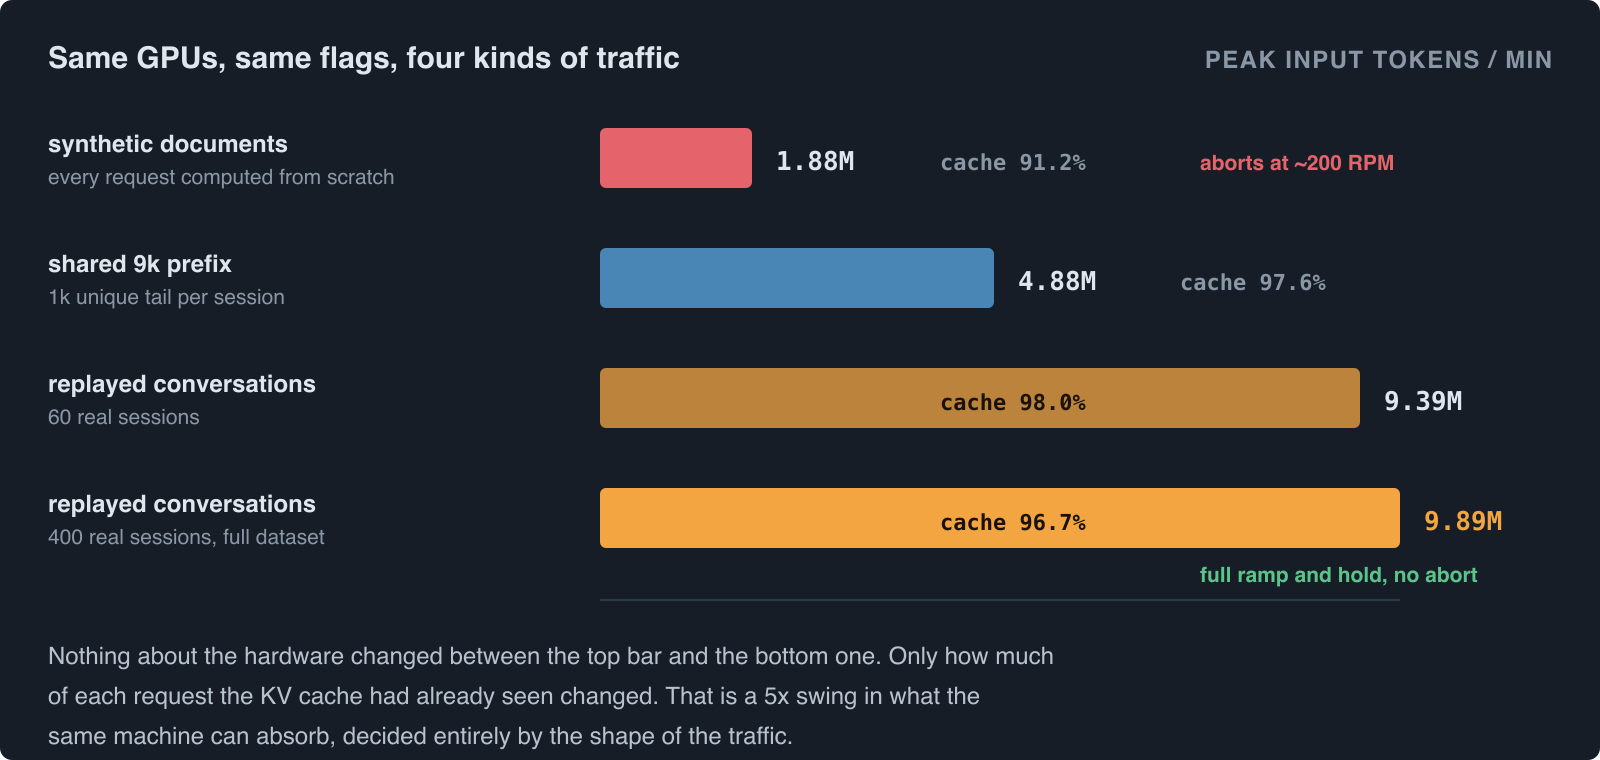
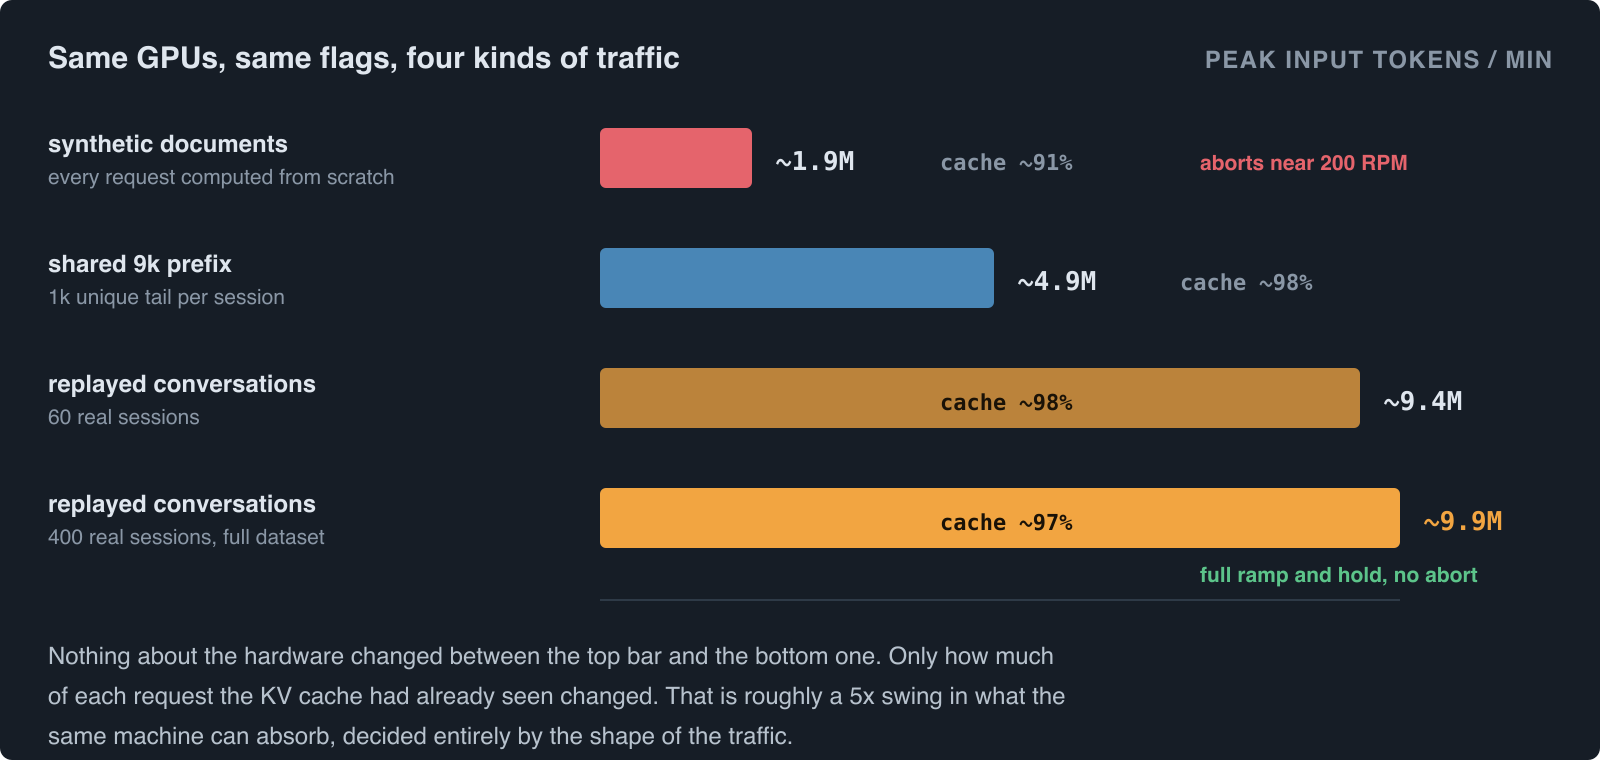
scaling: round the case study figures to approximate numbers, text and images

diff --git a/scaling/blog.md b/scaling/blog.md
@@ -214,17 +214,17 @@ Regions add capacity as a side effect, but choosing them for capacity alone is a
 
 The run described at the top completed the full ramp and the hold without tripping either abort condition, and everything above shows up in its numbers.
 
-Little's Law shows up directly in the raw numbers, not just as a teaching formula. Near the end of the run, about 1,119 requests per minute were completing, about 18.65 per second, each taking around 10 seconds end to end. 18.65 × 10 is about 186, and the harness was independently tracking around 190 to 196 requests actually running at once, the small gap being a handful of requests briefly queued rather than running.
+Little's Law shows up directly in the raw numbers, not just as a teaching formula. Near the end of the run, roughly 1,100 requests per minute were completing, so about 18 per second, each taking around 10 seconds end to end. 18 × 10 is about 180, and the server was independently reporting close to 200 requests actually running at once, dipping lower whenever a batch of requests sat briefly in the queue instead of running.
 
-Memory was the ceiling, not compute, here too. The 214 GiB of KV cache per GPU rank listed in the setup is what decided how many of those requests could be in flight at once, before counting the model's own weights.
+Memory was the ceiling, not compute, here too. The KV cache alone reserved more than 200 GiB per GPU rank, and that is what decided how many of those requests could be in flight at once, before counting the model's own weights.
 
 Workload shape decided the outcome more than the hardware did. The same server, same GPUs, same flags were tested against three different kinds of traffic. Synthetic sessions, each with a unique 10,000-token document that had to be computed from scratch every time, started struggling around 200 requests per minute. Replayed multi-turn conversations, where later messages in a thread share most of their tokens with earlier ones, took the identical hardware to nearly 10 million tokens per minute of offered load without aborting. Nothing about the GPUs changed between these two results, only how much of each request the KV cache had already seen.
 
-![Peak input tokens per minute for four different traffic shapes on identical hardware, from 1.88 million on synthetic documents to 9.89 million on replayed real conversations](images/11-workload-shape-changes-the-answer.png)
+![Peak input tokens per minute for four different traffic shapes on identical hardware, from roughly 2 million on synthetic documents to nearly 10 million on replayed conversations](images/11-workload-shape-changes-the-answer.png)
 
-That also means the headline number needs a second look before it is trusted. At peak, the system was offered about 10.2 million tokens per minute, but 97% of that was input, and 96.7% of the input was a cache hit rather than newly computed. The actual compute, real prefill plus real decode, was closer to 10,700 tokens per second. Both numbers are genuine, but they answer different questions: the first is how much traffic this exact workload shape can absorb, the second is how much work the GPUs are doing, and only the second one transfers to a workload with a different amount of shared prefix.
+That also means the headline number needs a second look before it is trusted. At peak, the system was offered around 10 million tokens per minute, but almost all of that was input, and roughly 97% of the input was a cache hit rather than newly computed. The actual compute, real prefill plus real decode, was closer to 11,000 tokens per second. Both numbers are genuine, but they answer different questions: the first is how much traffic this exact workload shape can absorb, the second is how much work the GPUs are doing, and only the second one transfers to a workload with a different amount of shared prefix.
 
-![The 10.2 million tokens per minute headline decomposed, showing that almost all of it was cache hits and only about 10,700 tokens per second was real computation](images/12-traffic-absorbed-vs-real-compute.png)
+![The ten million tokens per minute headline decomposed, showing that almost all of it was cache hits and only around eleven thousand tokens per second was real computation](images/12-traffic-absorbed-vs-real-compute.png)
 
 Every script and every raw result: [deepseek-v4-flash](https://github.com/abhijithneilabraham/deepseek-v4-flash).
 
